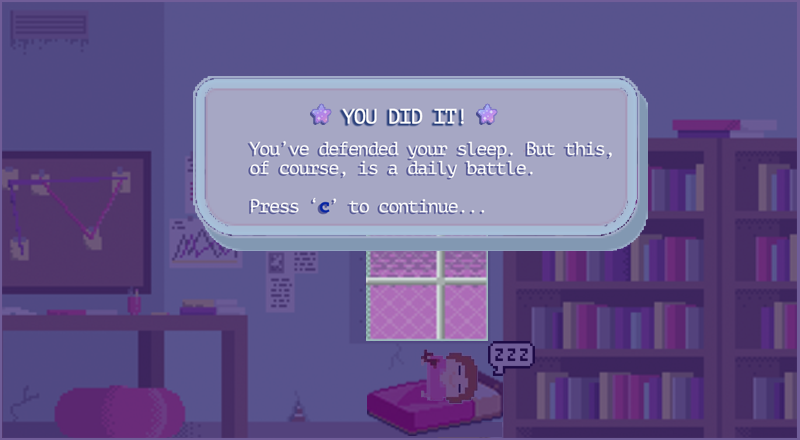
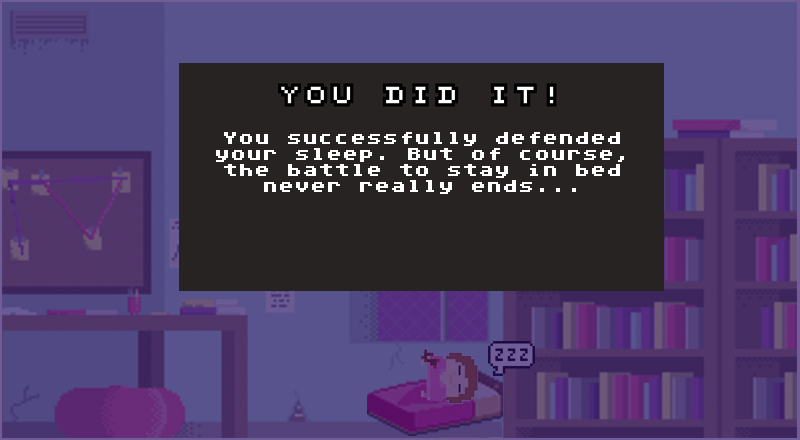
Music restarts if game restarts

diff --git a/js/index.js b/js/index.js
@@ -27,6 +27,9 @@ Loader
     "assets/images/play_button.gif",
     "assets/images/back_button.png",
     "assets/images/help_button.png",
+    "assets/images/continue-button.png",
+    "assets/images/exit-button.png",
+    "assets/images/retry-button.png",
     "assets/images/github_button.png",
     "assets/images/linkedin_button.png",
     "assets/images/controls_button.gif",
@@ -148,6 +151,9 @@ var pajamer,
     playButton,
     howButton, 
     backButton,
+    exitButton,
+    continueButton,
+    retryButton,
     muteButton,
     helpButton,
     controlsButton,
@@ -184,7 +190,7 @@ var backgroundLoop = new Howl({src:['assets/sounds/backgroundLoop.wav'], volume:
 var lullabyLoop = new Howl({src:['assets/sounds/lullaby.wav'], volume: 0.08, loop: true});
 var fireSound = new Howl({src:['assets/sounds/fire.wav'], loop: false});
 var startSound = new Howl({src:['assets/sounds/start.wav'], loop: false});
-var screenButtonSound = new Howl({src:['assets/sounds/instructions.mp3'], loop: false});
+var screenButtonSound = new Howl({src:['assets/sounds/instructions.mp3'], volume: 0.3, loop: false});
 
 
 
@@ -277,7 +283,10 @@ var screenButtonSound = new Howl({src:['assets/sounds/instructions.mp3'], loop: 
 
 function setup() {
 
-    // ENEMIES 
+  PIXI.utils.textureCache = {}; 
+  PIXI.utils.baseTextureCache = {};
+
+
 
 
   //Make the Enemies
@@ -313,6 +322,7 @@ function setup() {
     
     enemy.vy = randomInt(1,2) * direction;
     enemy.vx = randomInt(1,2);
+
     //Reverse the direction for the next enemy
     direction *= -1;
 
@@ -320,6 +330,7 @@ function setup() {
     enemies.push(enemy);
     //Add the enemy to the `stage`
   }
+
 
 var id = PIXI.loader.resources["assets/images/pajamer_sprites.json"].textures;
 
@@ -363,11 +374,31 @@ var id = PIXI.loader.resources["assets/images/pajamer_sprites.json"].textures;
 
     controlsModal = new Sprite(
       Resources["assets/images/controls_modal.png"].texture
+  );    
+
+    continueButton = new Sprite(
+      Resources["assets/images/continue-button.png"].texture
+  );
+
+    exitButton = new Sprite(
+      Resources["assets/images/exit-button.png"].texture
+  );
+    retryButton = new Sprite(
+      Resources["assets/images/retry-button.png"].texture
   );
 
 
-
   pausedMessage.position.set(240, 150)
+  continueButton.position.set(410, 230)
+
+  retryButton.scale.x = 0.75;
+  retryButton.scale.y = 0.75;  
+
+  exitButton.scale.x = 0.75;
+  exitButton.scale.y = 0.75;
+
+  continueButton.scale.x = 0.75;
+  continueButton.scale.y = 0.75;
 
   controlsModal.scale.x = 0.8;
   controlsModal.scale.y = 0.8;
@@ -497,26 +528,46 @@ var id = PIXI.loader.resources["assets/images/pajamer_sprites.json"].textures;
     linkedinButton.interactive = true;
     muteButton.interactive = true;
     helpButton.interactive = true;
-
-    // function muteButtonClick(){
-    //   if (muteButton.texture === onTexture){
-    //     backgroundLoop.pause()
-    //     fireSound.pause()
-    //     muteButton.texture = offTexture
-    //   } else {
-    //     backgroundLoop.play()
-    //     fireSound.play()
-    //     muteButton.texture = onTexture
-    //   }
-    // }
-
+    exitButton.interactive = true;
+    continueButton.interactive = true;
+    retryButton.interactive = true;
 
     function soundDim(){
-          muteButton.alpha = 0.3
+      muteButton.alpha = 0.3
     }
 
+
+    function exitButtonDown(){
+      exitButton.tint = 0x17e89b;
+      screenButtonSound.play()
+    }
+
+    function exitButtonUp(){
+      exitButton.tint = 0xFFFFFF;
+      // stage = new Container;
+      PIXI.utils.textureCache = {}; 
+      PIXI.utils.baseTextureCache = {};
+      setup()
+     // stage = new Container;
+      // renderer.destroy()
+      // renderer = autoDetectRenderer(800, 440, {antialias: true, transparent: false, resolution: 1});
+      state = welcome
+    }
+
+    exitButton
+    .on('mousedown', exitButtonDown)
+    .on('mouseover', brightenButton)
+    .on('mouseout', dimButtonUp)
+    .on('mouseupoutside', dimButtonUp)
+    .on('mouseup', exitButtonUp)
+    .on('touchstart', exitButtonDown)
+    .on('touchend', exitButtonUp)
+    .on('touchendoutside', dimButtonUp);
+
     helpButton
+    .on('mouseover', brightenButton)
     .on('mouseup', helpModalShow)
+    .on('mouseout', dimButtonUp)
 
     muteButton
     .on('mousedown', soundDim)
@@ -596,6 +647,7 @@ var id = PIXI.loader.resources["assets/images/pajamer_sprites.json"].textures;
     linkedinButton.scale.y = 0.3;
 
     playButton.alpha = 0.8;
+    helpButton.alpha = 0.8;
     linkedinButton.alpha = 0.8;
     githubButton.alpha = 0.8;
     howButton.alpha = 0.8;
@@ -726,7 +778,6 @@ function gameLoop() {
 
  function play(){
 
-  
   stage.removeChild(mainScreen)
   stage.removeChild(playButton)
   stage.removeChild(howButton)
@@ -765,6 +816,7 @@ function gameLoop() {
 // ENEMY CODE
     var chasers = [];
     enemies.forEach(function(enemy) {
+
       if ((distance < 200 && enemy !== specificEnemy && (stage.children.indexOf(enemy))% 2 === 0  ))  {
         chasers.push(enemy)
 
@@ -947,24 +999,45 @@ function controlsPaused(){
 }
 
 function end1() {
-  // stage.visible = false;
+
+  backgroundLoop.stop()
+  stage.removeChild(muteButton)
+  stage.removeChild(helpButton)
+  exitButton.position.set(280, 180)
+  retryButton.position.set(430, 180)
   stage.addChild(endMessage)
+  stage.addChild(exitButton)
+  stage.addChild(retryButton)
   backgroundLoop.pause()
 }
 
 function end2() {
-  // stage.visible = false;
+  backgroundLoop.stop()
+  stage.removeChild(muteButton)
+  stage.removeChild(helpButton)
+    exitButton.position.set(280, 180)
+    retryButton.position.set(430, 180)
   stage.addChild(endMessage2)
+  stage.addChild(exitButton)
+  stage.addChild(retryButton)
   backgroundLoop.pause()
 }
 
 
 function win1(){
+  backgroundLoop.stop()
   stage.addChild(winMessage1)
-    backgroundLoop.pause()
+  exitButton.position.set(270, 230)
+  winMessage1.addChild(continueButton)
+  winMessage1.addChild(exitButton)
+  backgroundLoop.pause()
 }
 
 function welcome(){
+  // setup()
+  stage.removeChild(endMessage2)
+  stage.removeChild(endMessage)
+
   stage.addChild(mainScreen)
   stage.addChild(playButton)
   stage.addChild(githubButton)

diff --git a/docs/dev-README.md b/docs/dev-README.md
@@ -19,9 +19,7 @@ With this game, users will be able to:
 - [ ] Start, pause, and reset the game.
 - [ ] Move their character up, down, left, and right.
 - [ ] Fire projectiles at enemy objects to destroy them.
-- [ ] Hear sound effects for:
-1. The firing of projectiles
-2. Being hit by an enemy object and hitting an enemy object
+- [ ] Hear sound effects for the firing of projectiles
 
 In addition, this project will include:
 
@@ -101,10 +99,10 @@ In addition to the webpack entry file, there will be three scripts involved in t
 - [X] Replace basic sprites with more beautiful sprites
 - [ ] Add `restart` and `help` button (which opens the Instructional modal)
 - [X] Instructional screen at start 
-  - [ ] `?` button re-displays the Instructions modal 
- 	- [ ] `Help` button pauses the game 
+  - [X] `Help` button re-displays the Instructions modal 
+ 	- [X] `Help` button pauses the game 
 	- [ ] `Restart` button restarts the game
-	- [ ] Add `mute` button 
+	- [X] Add `mute` button 
 
 
 ### Bonus features :sparkles:
